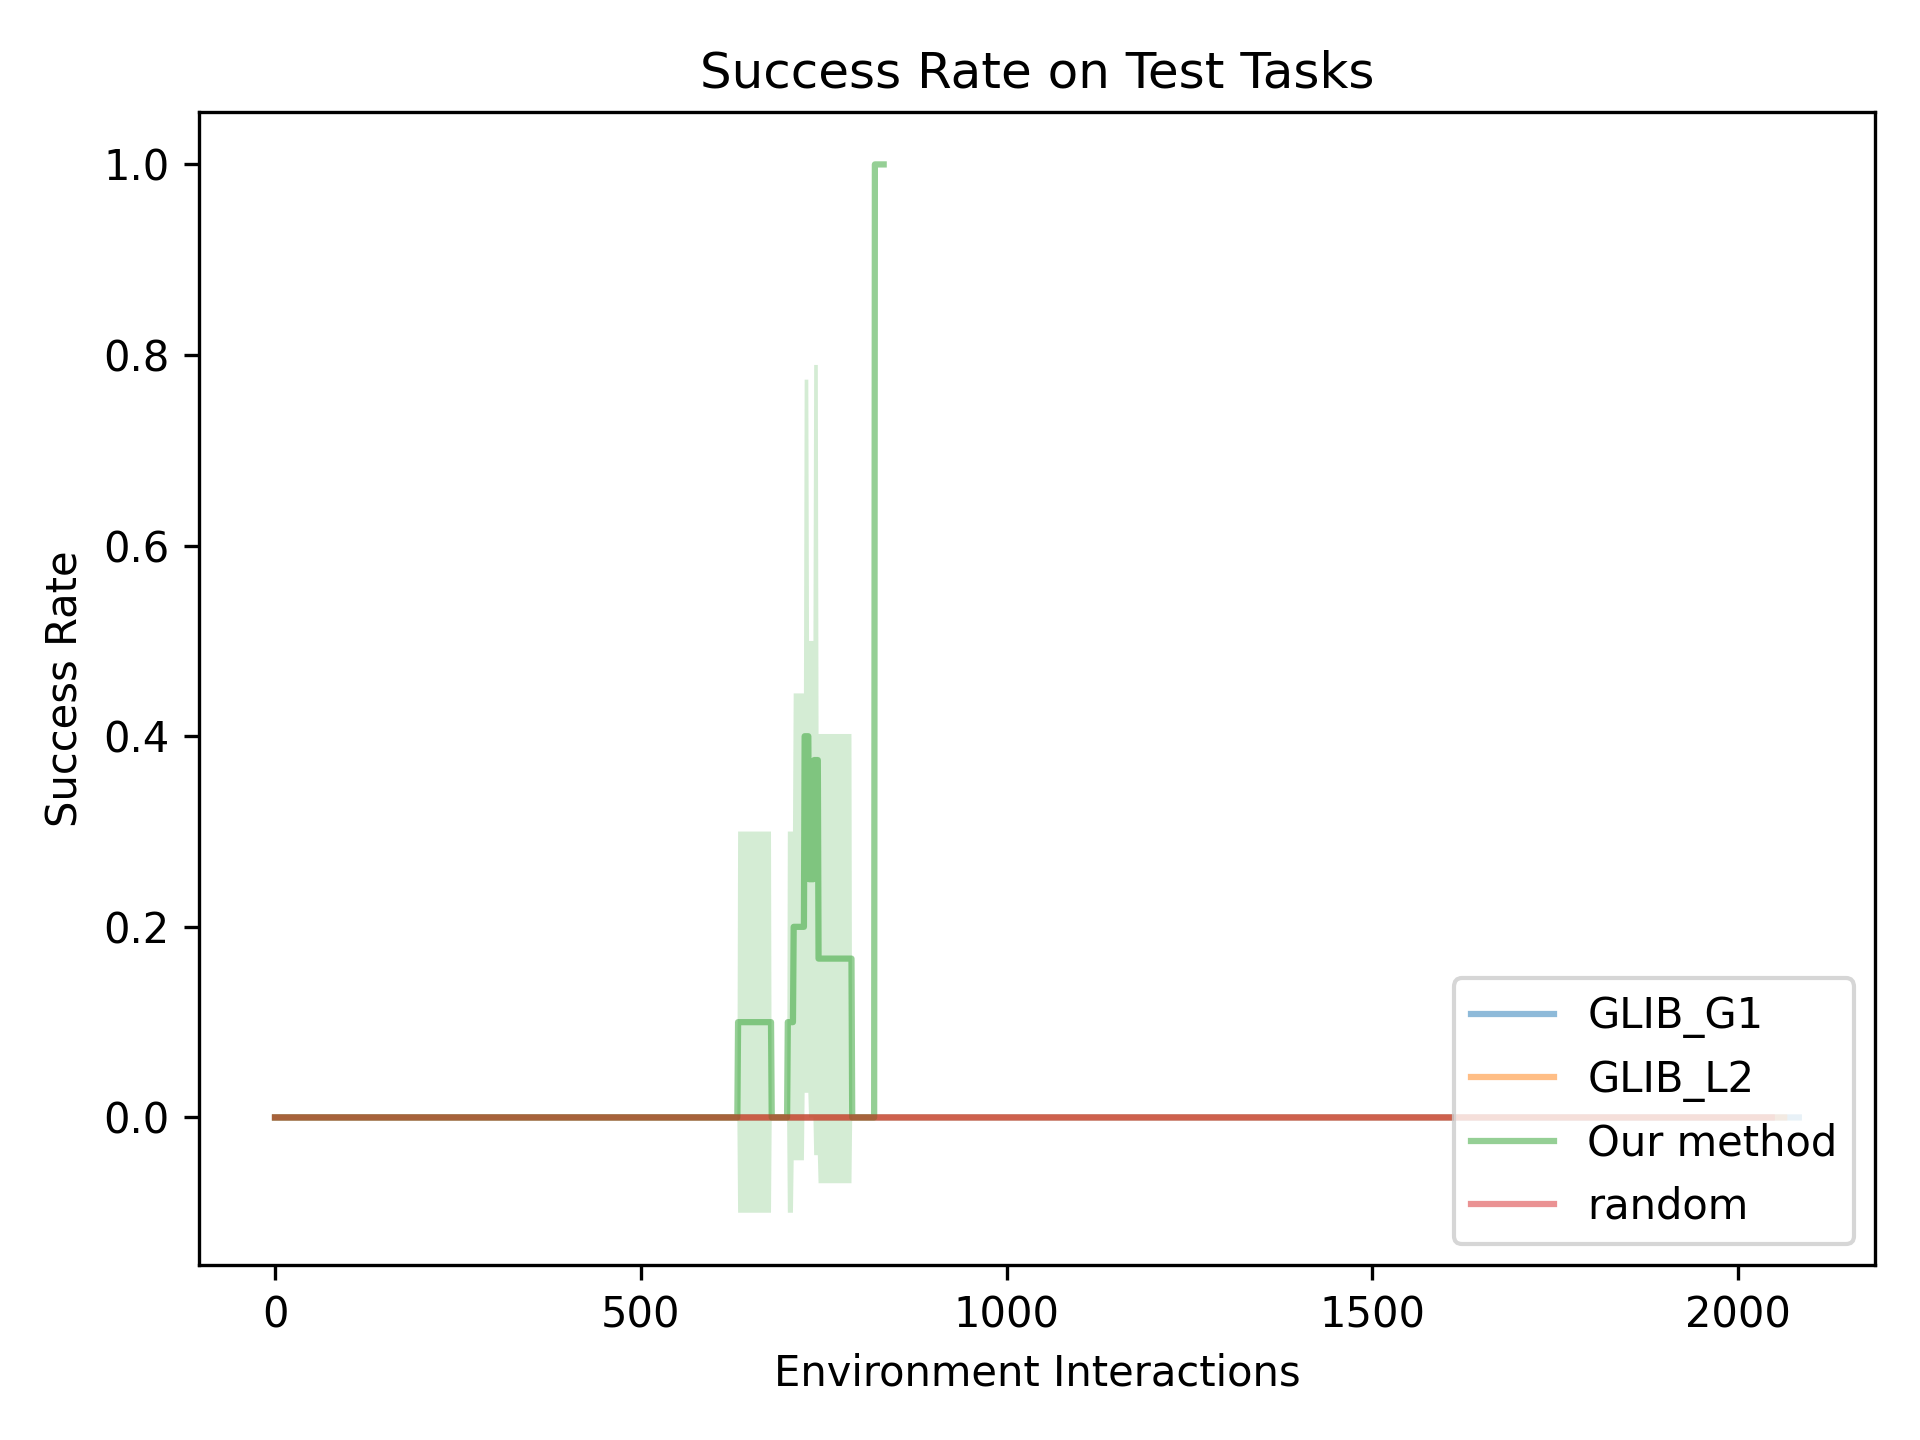
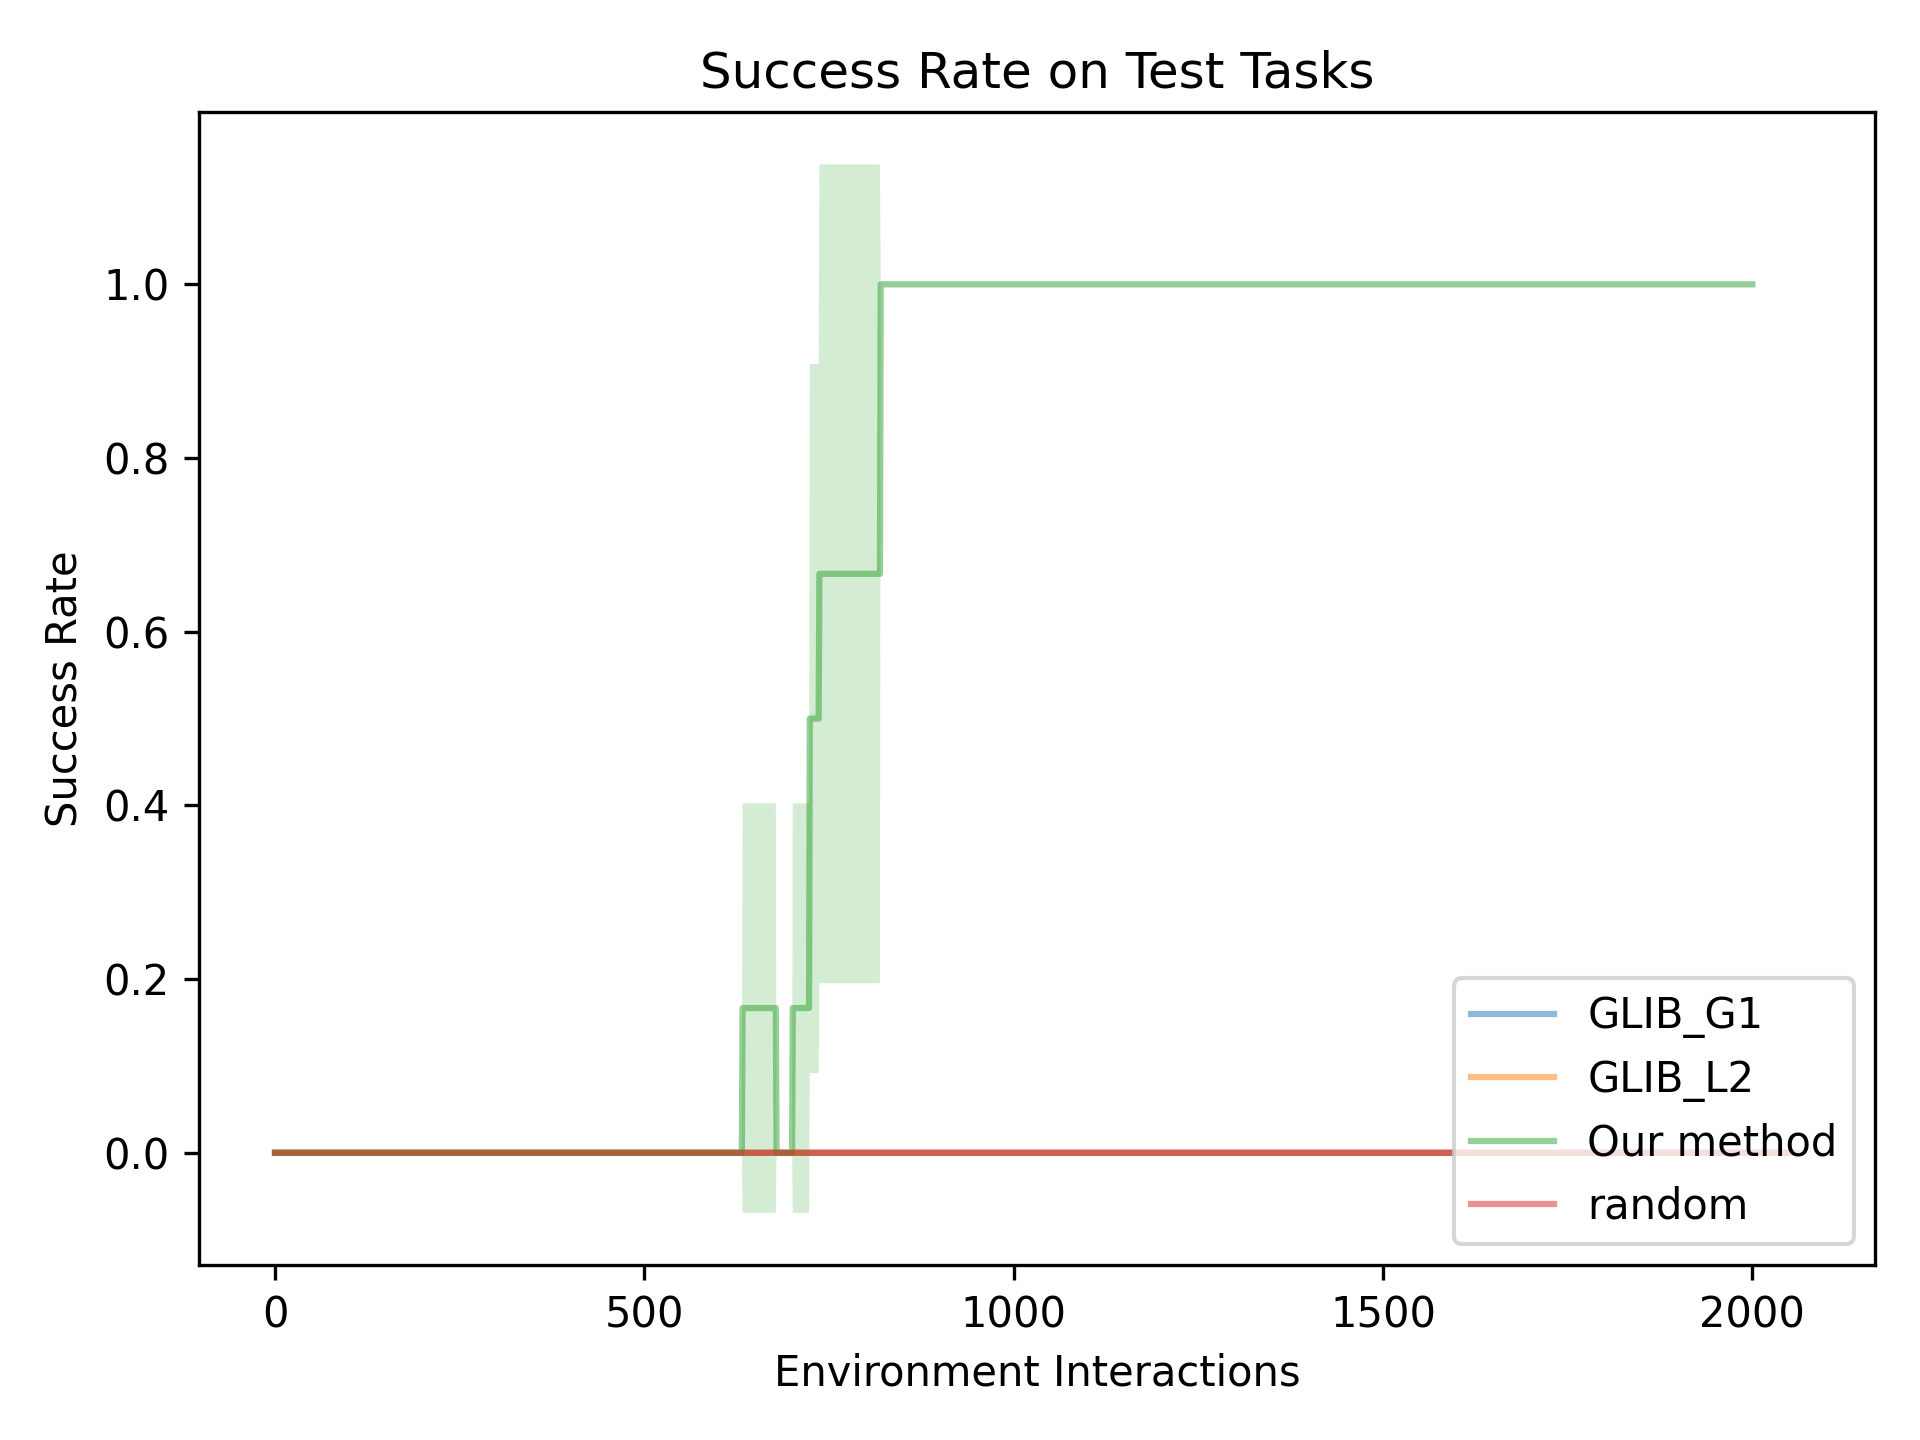
update

diff --git a/plotting.py b/plotting.py
@@ -184,11 +184,15 @@ MIXING_AND_HARDER_TASKS = set([0,1,2,3,4,5,6,8,9])
 GENERALIZATION_TASKS = set([0,1])
 TRAIN_TASKS = set(range(3,22))
 EASY_TRAIN_TASKS = set(range(10, 22))
+ALL_TASKS = set(range(22))
 
 PLOTS = {
     ("Success Rate on Test Tasks", 'results/Bakingrealistic/bakingrealistic_succ_generalized.png'): GENERALIZATION_TASKS,
-    ("Success Rate on Training Tasks", 'results/Bakingrealistic/bakingrealistic_succ_training.png'): TRAIN_TASKS,
-    ("Success Rate on Easy Training Tasks", 'results/Bakingrealistic/bakingrealistic_succ_easy_training.png'): EASY_TRAIN_TASKS,
+    # ("Success Rate on Training Tasks", 'results/Bakingrealistic/bakingrealistic_succ_training.png'): TRAIN_TASKS,
+    # ("Success Rate on Easy Training Tasks", 'results/Bakingrealistic/bakingrealistic_succ_easy_training.png'): EASY_TRAIN_TASKS,
+
+
+    # ("Success Rate on All Tasks (Train and Test)", 'results/Bakingrealistic/bakingrealistic_succ_demos.png'): ALL_TASKS,
 }
 
 def get_plots_for_bakinglarge(results_dict, results_filepaths_dict, append_demos_dict):
@@ -266,6 +270,10 @@ def get_plots_for_bakinglarge(results_dict, results_filepaths_dict, append_demos
 
 
             for plot_name, _ in PLOTS:
+                # extend the line here.
+                if len(rates_result[plot_name]) < 2000:
+                    print(rates_result[plot_name])
+                    rates_result[plot_name] = rates_result[plot_name] + (rates_result[plot_name][-1] * np.ones((2000 - len(rates_result[plot_name]),))).tolist()
                 rates[plot_name].append(rates_result[plot_name])
 
 
@@ -578,7 +586,7 @@ def _main():
 
     results_list = []
 
-    # Load the new method results
+    # # Load the new method results
     new_method_curve_name = f"Our method"
     append_demos[new_method_curve_name] = False
     for seed in pc.seeds:

diff --git a/curiosity_modules/GLIB_lifted.py b/curiosity_modules/GLIB_lifted.py
@@ -230,6 +230,7 @@ class GLIBLCuriosityModule(GoalBabblingCuriosityModule):
             # Ignore mutex
             if self._ignore_mutex and goal in self._goal_mutex_pairs:
                 continue
+            # Skip visited (goal, action pairs). This is the novelty measure.
             for state, action in self._seen_state_actions:
                 goal_assignments = find_satisfying_assignments(state.literals, tuple([l for l in goal]), allow_redundant_variables=False)
                 action_assignment = find_satisfying_assignments([action], [lifted_action], allow_redundant_variables=False)

diff --git a/settings.py b/settings.py
@@ -331,7 +331,7 @@ class LLMConfig:
 class PlottingConfig:
     """Plotting from cached results.
     """
-    seeds = range(1,11)
+    seeds =  [1, 3 ,10] #range(1,11)
     agent_learner_explorer = [
         # ("demoagent", "LNDR", "GLIB_G1"), ('demoagent', "LNDR", "GLIB_L2"), 
                                 ("agent", "LNDR", "GLIB_G1"), ('agent', "LNDR", "GLIB_L2"), ("agent", "LNDR", "random")
